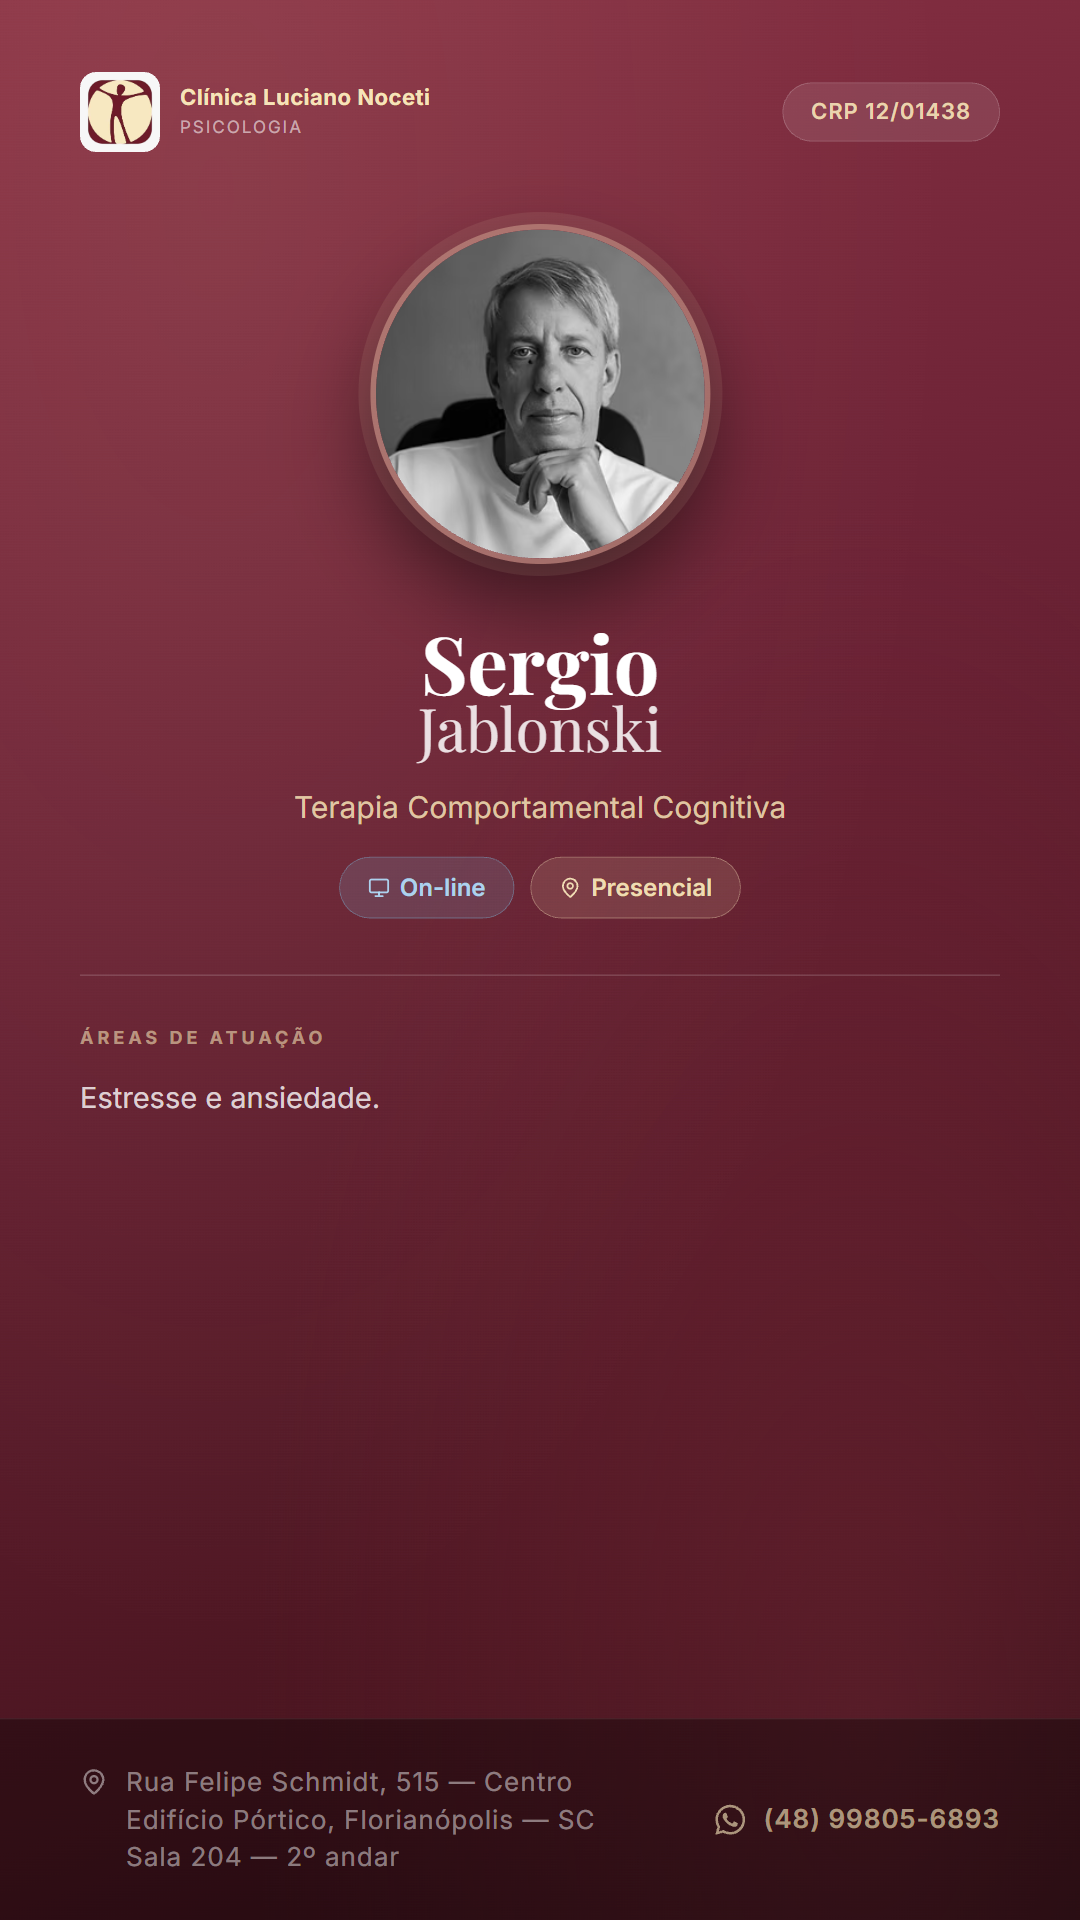
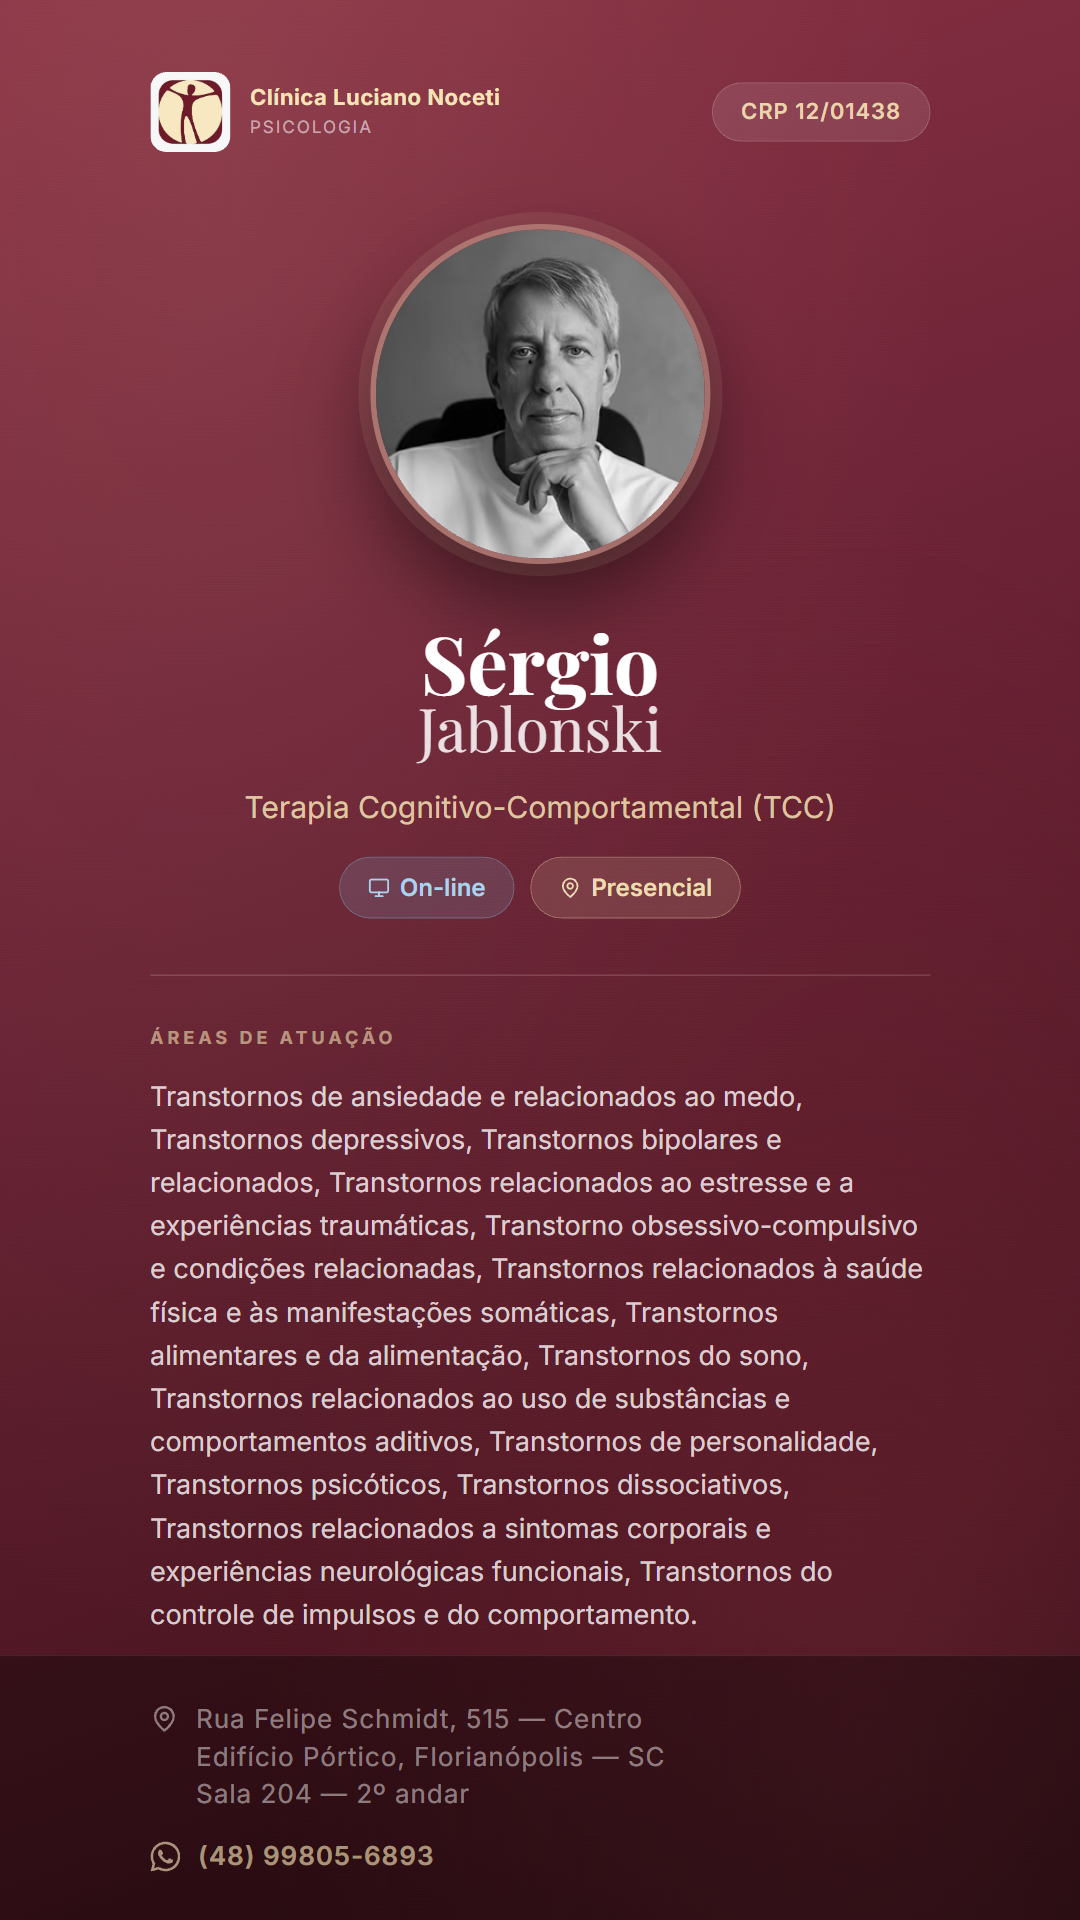
content(equipe): atualiza a landing page de Sergio Jablonski
Acrescenta manifesto, texto da primeira sessao, seis formacoes detalhadas
e o Instagram profissional. Demandas passam das duas antigas para as 14
informadas, e o metodo e a formacao foram reescritos com os novos dados.
Nome corrigido para "Sergio" com acento (o slug nao muda).

Card de Instagram regerado.

diff --git a/lib/profissionais.ts b/lib/profissionais.ts
@@ -771,15 +771,50 @@ export const profissionais: Prof[] = [
     foto: '/equipe/sâmya_psico.avif',
   },
   {
-    nome: 'Sergio Jablonski',
+    nome: 'Sérgio Jablonski',
     registro: 'CRP 12/01438',
-    metodo: 'Terapia Comportamental Cognitiva',
+    metodo: 'Terapia Cognitivo-Comportamental (TCC)',
     filtros: ['TCC'],
-    formacao: 'Graduação em psicologia (UFSC, 1995), Mestrado em psicologia (UFSC, 1998), Doutorado em epistemologia da psicologia (UFSCar, 2010).',
+    formacao: 'Graduação em Psicologia (UFSC, 1995); Mestrado em Psicologia (UFSC, 1998); Doutorado em Epistemologia da Psicologia (UFSCar, 2010), com pesquisa relacionada à Filosofia da Mente; Especialização em Gestão do Estresse; Formação complementar em Terapia Cognitivo-Comportamental (TCC); Experiência em Psicologia do Trânsito e avaliação psicológica para habilitação; Professor de graduação e pós-graduação em Psicologia.',
     publico: 'Atende Adulto a partir dos 18 anos, Idosos. Atendimento Presencial e On-line.',
-    demandas: 'Estresse e ansiedade.',
+    demandas: 'Transtornos de ansiedade e relacionados ao medo, Transtornos depressivos, Transtornos bipolares e relacionados, Transtornos relacionados ao estresse e a experiências traumáticas, Transtorno obsessivo-compulsivo e condições relacionadas, Transtornos relacionados à saúde física e às manifestações somáticas, Transtornos alimentares e da alimentação, Transtornos do sono, Transtornos relacionados ao uso de substâncias e comportamentos aditivos, Transtornos de personalidade, Transtornos psicóticos, Transtornos dissociativos, Transtornos relacionados a sintomas corporais e experiências neurológicas funcionais, Transtornos do controle de impulsos e do comportamento.',
     atendimento: 'Unimed, Cartão Acesso + Fácil (Unimed), Saudesc, Celos, Elo saúde, Abepom, Casacaresc, Sc Saúde, Sim Saúde, Geap, Fusex, Petrobras, Saúde Caixa, Sidesc e Particular.',
     foto: '/equipe/sergio_psico.avif',
+    instagram_url: 'https://www.instagram.com/psicologo.sergio.jablonski.phd/',
+    manifesto: 'Acredito que compreender o sofrimento psicológico exige olhar para além dos sintomas, considerando a história, os pensamentos, as emoções e as formas pelas quais cada pessoa aprendeu a lidar com as exigências da vida. Em minha prática clínica, busco integrar conhecimento científico, reflexão filosófica e escuta acolhedora para ajudar cada pessoa a compreender seus padrões de funcionamento e ampliar suas possibilidades de escolha. Trabalho com respeito à singularidade de cada trajetória, favorecendo o autoconhecimento e a construção de formas mais conscientes e saudáveis de enfrentar os desafios da existência.',
+    abordagem_explicada: 'Nosso primeiro encontro é um espaço de escuta e acolhimento, no qual procuro compreender sua história, suas dificuldades atuais e aquilo que você espera da psicoterapia. A partir dessa conversa, começamos a construir uma compreensão compartilhada das suas necessidades e a identificar possíveis caminhos para o trabalho terapêutico.',
+    pos_graduacoes: [
+      {
+        tipo: 'Graduação',
+        curso: 'Psicologia',
+        instituicao: 'Universidade Federal de Santa Catarina (UFSC)',
+        ano: '1995',
+      },
+      {
+        tipo: 'Mestrado',
+        curso: 'Psicologia',
+        instituicao: 'Universidade Federal de Santa Catarina (UFSC)',
+        ano: '1998',
+      },
+      {
+        tipo: 'Doutorado',
+        curso: 'Epistemologia da Psicologia, com pesquisa relacionada à Filosofia da Mente',
+        instituicao: 'Universidade Federal de São Carlos (UFSCar)',
+        ano: '2010',
+      },
+      {
+        tipo: 'Especialização',
+        curso: 'Gestão do Estresse',
+      },
+      {
+        tipo: 'Formação complementar',
+        curso: 'Terapia Cognitivo-Comportamental (TCC)',
+      },
+      {
+        tipo: 'Experiência docente',
+        curso: 'Professor de graduação e pós-graduação em Psicologia',
+      },
+    ],
   },
   {
     nome: 'Tapu Ian',
